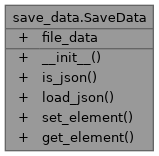
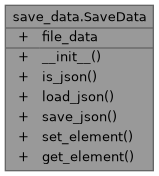
deploy: 730d1300e85ae14c3d44b3bc0de9a9447378fcd1

Changed region(s): [[0.0252, 0.0256, 0.9811, 0.9744], [0.1006, 0.7179, 0.1761, 0.8205], [0.1006, 0.8462, 0.1761, 0.8974]]

diff --git a/classsave__data_1_1SaveData-members.html b/classsave__data_1_1SaveData-members.html
@@ -84,7 +84,8 @@ $(function() {
   <tr bgcolor="#f0f0f0" class="even"><td class="entry"><b>get_element</b>(self, element) (defined in <a class="el" href="classsave__data_1_1SaveData.html">save_data.SaveData</a>)</td><td class="entry"><a class="el" href="classsave__data_1_1SaveData.html">save_data.SaveData</a></td><td class="entry"></td></tr>
   <tr bgcolor="#f0f0f0" class="odd"><td class="entry"><b>is_json</b>(self, myjson) (defined in <a class="el" href="classsave__data_1_1SaveData.html">save_data.SaveData</a>)</td><td class="entry"><a class="el" href="classsave__data_1_1SaveData.html">save_data.SaveData</a></td><td class="entry"></td></tr>
   <tr bgcolor="#f0f0f0" class="even"><td class="entry"><b>load_json</b>(self, path) (defined in <a class="el" href="classsave__data_1_1SaveData.html">save_data.SaveData</a>)</td><td class="entry"><a class="el" href="classsave__data_1_1SaveData.html">save_data.SaveData</a></td><td class="entry"></td></tr>
-  <tr bgcolor="#f0f0f0" class="odd"><td class="entry"><b>set_element</b>(self, element, data) (defined in <a class="el" href="classsave__data_1_1SaveData.html">save_data.SaveData</a>)</td><td class="entry"><a class="el" href="classsave__data_1_1SaveData.html">save_data.SaveData</a></td><td class="entry"></td></tr>
+  <tr bgcolor="#f0f0f0" class="odd"><td class="entry"><b>save_json</b>(self, path) (defined in <a class="el" href="classsave__data_1_1SaveData.html">save_data.SaveData</a>)</td><td class="entry"><a class="el" href="classsave__data_1_1SaveData.html">save_data.SaveData</a></td><td class="entry"></td></tr>
+  <tr bgcolor="#f0f0f0" class="even"><td class="entry"><b>set_element</b>(self, element, data) (defined in <a class="el" href="classsave__data_1_1SaveData.html">save_data.SaveData</a>)</td><td class="entry"><a class="el" href="classsave__data_1_1SaveData.html">save_data.SaveData</a></td><td class="entry"></td></tr>
 </table></div><!-- contents -->
 <!-- start footer part -->
 <hr class="footer"/><address class="footer"><small>

diff --git a/classsave__data_1_1SaveData.html b/classsave__data_1_1SaveData.html
@@ -85,7 +85,7 @@ Collaboration diagram for save_data.SaveData:</div>
 <div class="dyncontent">
 <div class="center"><img src="classsave__data_1_1SaveData__coll__graph.png" border="0" usemap="#asave__data_8SaveData_coll__map" alt="Collaboration graph"/></div>
 <map name="asave__data_8SaveData_coll__map" id="asave__data_8SaveData_coll__map">
-<area shape="rect" title=" " alt="" coords="5,5,153,151"/>
+<area shape="rect" title=" " alt="" coords="5,5,153,171"/>
 </map>
 </div>
 <table class="memberdecls">
@@ -100,6 +100,9 @@ Public Member Functions</h2></td></tr>
 <tr class="memitem:a0ee5b2a52bd11b49a330c9efe602df05" id="r_a0ee5b2a52bd11b49a330c9efe602df05"><td class="memItemLeft" align="right" valign="top"><a id="a0ee5b2a52bd11b49a330c9efe602df05" name="a0ee5b2a52bd11b49a330c9efe602df05"></a>
 &#160;</td><td class="memItemRight" valign="bottom"><b>load_json</b> (self, path)</td></tr>
 <tr class="separator:a0ee5b2a52bd11b49a330c9efe602df05"><td class="memSeparator" colspan="2">&#160;</td></tr>
+<tr class="memitem:a39c730cb88575573596ebc938d482456" id="r_a39c730cb88575573596ebc938d482456"><td class="memItemLeft" align="right" valign="top"><a id="a39c730cb88575573596ebc938d482456" name="a39c730cb88575573596ebc938d482456"></a>
+&#160;</td><td class="memItemRight" valign="bottom"><b>save_json</b> (self, path)</td></tr>
+<tr class="separator:a39c730cb88575573596ebc938d482456"><td class="memSeparator" colspan="2">&#160;</td></tr>
 <tr class="memitem:a4a15a18cf0755260963eff3197b89067" id="r_a4a15a18cf0755260963eff3197b89067"><td class="memItemLeft" align="right" valign="top"><a id="a4a15a18cf0755260963eff3197b89067" name="a4a15a18cf0755260963eff3197b89067"></a>
 &#160;</td><td class="memItemRight" valign="bottom"><b>set_element</b> (self, element, data)</td></tr>
 <tr class="separator:a4a15a18cf0755260963eff3197b89067"><td class="memSeparator" colspan="2">&#160;</td></tr>
